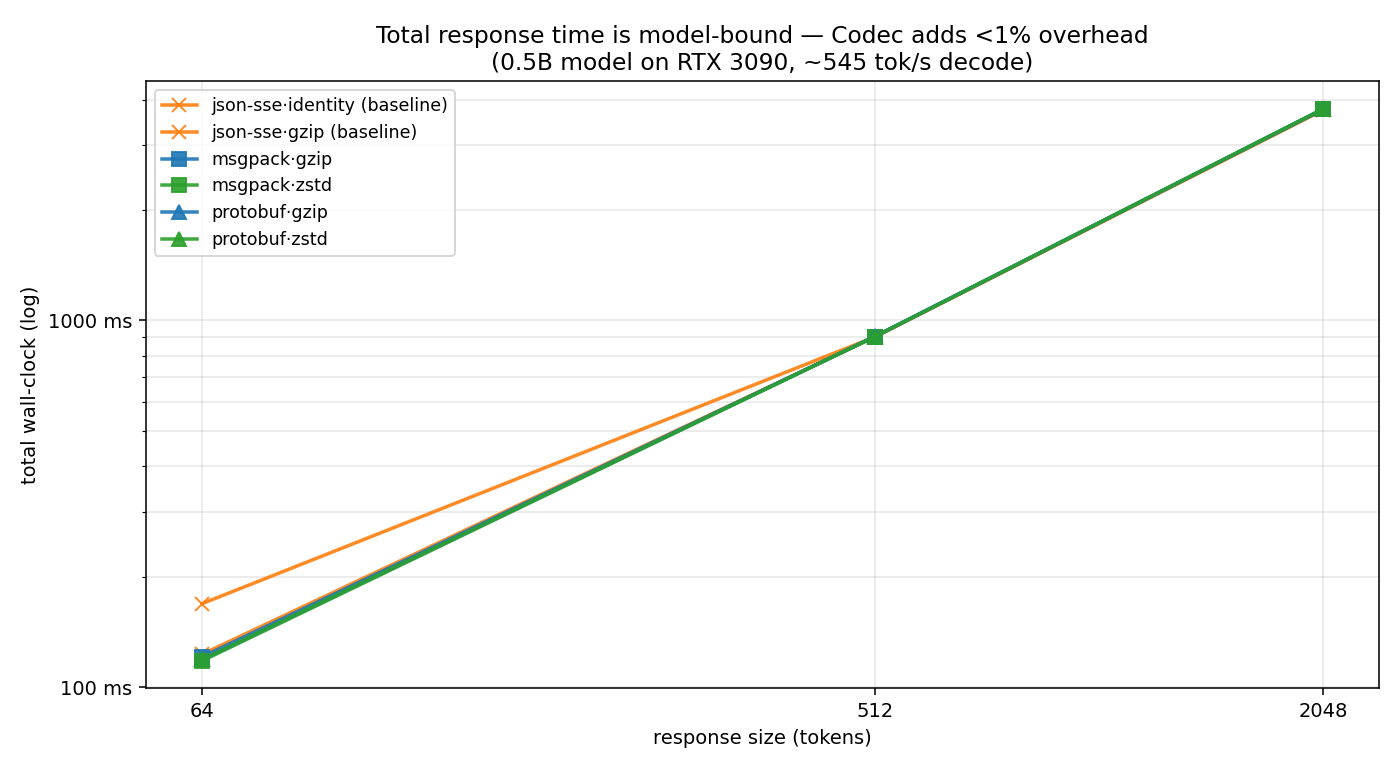
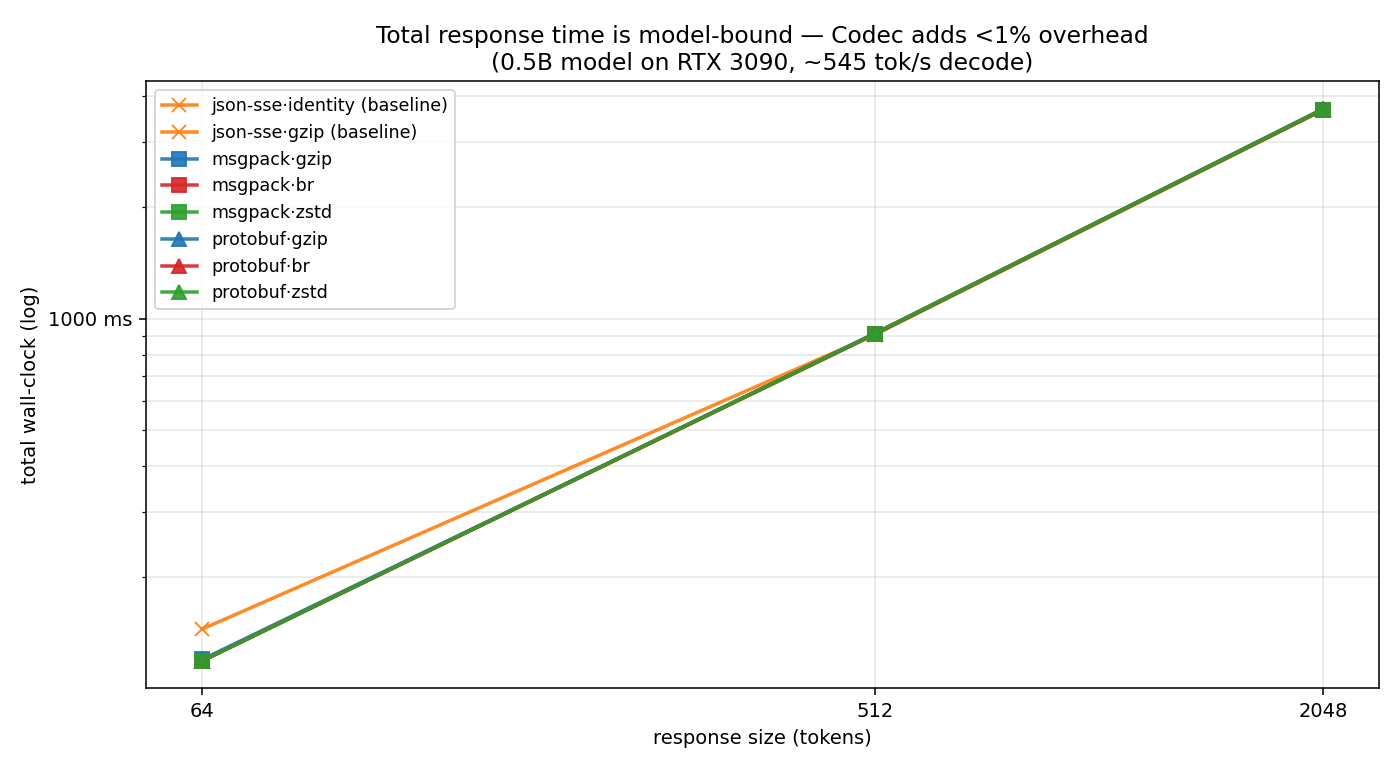
bench: reconcile TTFT analysis with single-run timed sweep
The previous TTFT and crossover tables were stitched together from
separate runs which produced subtle inconsistencies in br numbers --
br looked like it was getting ~17x wire reduction in one place and
worse-than-identity in another. Both can be true at different sizes,
and which you cite depends on which run you pull from.

Adds: codec-bench-timed entrypoint that runs all 12 cells (3 paths x
4 encodings) at 3 sizes with multiple reps in a single consistent run,
emitting wire-bytes / TTFT / total-time / token-count tables.

Re-running gave definitive numbers (1967 emitted tokens at the large
size, identical across encodings):

  msgpack identity:  28.1 KB     msgpack gzip:    660 B     ratio: 43x
  msgpack zstd:       470 B  TTFT 3674ms       msgpack br: 20.6 KB
  protobuf identity: 18.9 KB     protobuf gzip:   608 B     ratio: 31x
  protobuf zstd:      467 B  TTFT 3684ms       protobuf br: 20.2 KB BIGGER

Two findings, not one:
1. zstd cliff is real (TTFT 119/910/3684 ms vs ~11ms for everything else)
2. Brotli is barely compressing on this stack -- protobuf br at 2K is
   actually 7% larger than uncompressed identity. Likely a server-side
   per-frame compression config issue, not a fundamental br limitation.

Updates:
- RESULTS.md sec 1d completely rewritten with the single-run dataset.
  New 'Two findings' framing; wire-bytes table included alongside TTFT;
  protobuf br > identity called out explicitly.
- TTFT chart data refreshed to match the run.
[…]

diff --git a/packages/demo-python/src/codec_demo/timed_sweep.py b/packages/demo-python/src/codec_demo/timed_sweep.py
@@ -1,0 +1,167 @@
+"""Definitive timed sweep — single run, fixed prompt, multiple reps, all
+12 cells (3 paths x 4 encodings) at 3 sizes. Reports both wire bytes
+and TTFT so the time-vs-bytes story comes from one consistent dataset.
+
+This exists because the previous TTFT and crossover tables were stitched
+together from separate runs, which produced subtle inconsistencies in
+the brotli numbers (small Codec frames + small differences in emitted
+token counts give surprisingly different br behaviour).
+
+Usage:
+    codec-bench-timed --url http://192.168.1.88:30000
+                      --sizes 64 512 2048 --reps 3
+"""
+from __future__ import annotations
+
+import argparse
+import asyncio
+import statistics
+import sys
+import time
+from dataclasses import dataclass
+
+import httpx
+
+from . import PATHS, ENCODINGS, Cell, run_one, fmt_bytes
+
+
+LONG_PROMPT = (
+    "Write a long, detailed essay covering: 1) the complete history of "
+    "artificial intelligence from 1950 to today, 2) every major architecture, "
+    "3) the math behind backprop and attention with worked examples, "
+    "4) the alignment problem in detail, 5) hardware evolution, 6) the "
+    "economics of training large models. Be thorough and use complete sentences."
+)
+
+
+@dataclass
+class CellTime:
+    size: int
+    path_label: str
+    fmt: str
+    encoding: str
+    wire_bytes: int | None
+    ttfb_ms: float | None
+    total_ms: float | None
+    tokens: int
+
+
+async def run_cell(client: httpx.AsyncClient, url: str, model: str,
+                   prompt: str, max_tokens: int,
+                   path_label: str, fmt: str, encoding: str,
+                   reps: int) -> CellTime:
+    wires: list[int] = []
+    ttfbs: list[float] = []
+    totals: list[float] = []
+    tokens = 0
+    for _ in range(reps):
+        cell = Cell(path_label=path_label, format=fmt, encoding=encoding)
+        await run_one(client, url, model, prompt, max_tokens, cell)
+        if cell.status == "done" and cell.wire_bytes is not None:
+            wires.append(cell.wire_bytes)
+            if cell.ttfb_ms is not None: ttfbs.append(cell.ttfb_ms)
+            if cell.total_ms is not None: totals.append(cell.total_ms)
+            tokens = max(tokens, cell.tokens)
+    return CellTime(
+        size=max_tokens,
+        path_label=path_label,
+        fmt=fmt,
+        encoding=encoding,
+        wire_bytes=int(statistics.median(wires)) if wires else None,
+        ttfb_ms=statistics.median(ttfbs) if ttfbs else None,
+        total_ms=statistics.median(totals) if totals else None,
+        tokens=tokens,
+    )
+
+
+async def main_async(args: argparse.Namespace) -> None:
+    results: list[CellTime] = []
+    async with httpx.AsyncClient() as client:
+        for size in args.sizes:
+            print(f"\n>>> size={size}", file=sys.stderr)
+            for label, fmt in PATHS:
+                for enc in ENCODINGS:
+                    print(f"    {label:25s} {enc:8s}  ", end="", file=sys.stderr, flush=True)
+                    r = await run_cell(client, args.url, args.model,
+                                       LONG_PROMPT, size, label, fmt, enc, args.reps)
+                    results.append(r)
+                    print(
+                        f"wire={fmt_bytes(r.wire_bytes):>10s} "
+                        f"ttfb={int(r.ttfb_ms or 0):>5d} ms "
+                        f"total={int(r.total_ms or 0):>5d} ms "
+                        f"tokens={r.tokens}",
+                        file=sys.stderr,
+                    )
+
+    print(f"# Codec timed sweep — definitive run\n")
+    print(f"Server: {args.url}")
+    print(f"Model:  {args.model}")
+    print(f"Reps:   {args.reps}  (medians shown)")
+    print(f"Sizes:  {args.sizes}\n")
+
+    # Wire bytes table
+    print("\n## Wire bytes (median of reps)\n")
+    sizes = args.sizes
+    header = f"| {'path · encoding':30s} |" + "|".join(f" {s:>9d} tok " for s in sizes) + "|"
+    sep = "|" + "-" * 32 + "|" + "|".join("-----------:" for _ in sizes) + "|"
+    print(header)
+    print(sep)
+    for label, fmt in PATHS:
+        for enc in ENCODINGS:
+            cells = []
+            for size in sizes:
+                hit = next((r for r in results if r.size == size and r.path_label == label and r.encoding == enc), None)
+                cells.append(f"{fmt_bytes(hit.wire_bytes) if hit else '-':>11s}")
+            print(f"| {label + ' · ' + enc:30s} |" + "|".join(f" {c} " for c in cells) + "|")
+
+    # TTFT table
+    print("\n## TTFT (ms, median of reps)\n")
+    print(header)
+    print(sep)
+    for label, fmt in PATHS:
+        for enc in ENCODINGS:
+            cells = []
+            for size in sizes:
+                hit = next((r for r in results if r.size == size and r.path_label == label and r.encoding == enc), None)
+                v = "-" if hit is None or hit.ttfb_ms is None else f"{int(hit.ttfb_ms)} ms"
+                cells.append(f"{v:>11s}")
+            print(f"| {label + ' · ' + enc:30s} |" + "|".join(f" {c} " for c in cells) + "|")
+
+    # Total
+    print("\n## Total wall-clock (ms, median of reps)\n")
+    print(header)
+    print(sep)
+    for label, fmt in PATHS:
+        for enc in ENCODINGS:
+            cells = []
+            for size in sizes:
+                hit = next((r for r in results if r.size == size and r.path_label == label and r.encoding == enc), None)
+                v = "-" if hit is None or hit.total_ms is None else f"{int(hit.total_ms)} ms"
+                cells.append(f"{v:>11s}")
+            print(f"| {label + ' · ' + enc:30s} |" + "|".join(f" {c} " for c in cells) + "|")
+
+    # Tokens emitted (sanity: should be roughly equal across encodings within a size)
+    print("\n## Tokens emitted (sanity check)\n")
+    print(header)
+    print(sep)
+    for label, fmt in PATHS:
+        for enc in ENCODINGS:
+            cells = []
+            for size in sizes:
+                hit = next((r for r in results if r.size == size and r.path_label == label and r.encoding == enc), None)
+                cells.append(f"{(hit.tokens if hit else 0):>11d}")
+            print(f"| {label + ' · ' + enc:30s} |" + "|".join(f" {c} " for c in cells) + "|")
+
+
+def main() -> None:
+    ap = argparse.ArgumentParser(prog="codec-bench-timed")
+    ap.add_argument("--url", default="http://192.168.1.88:30000")
+    ap.add_argument("--model", default="Qwen/Qwen2.5-0.5B-Instruct")
+    ap.add_argument("--sizes", type=int, nargs="+", default=[64, 512, 2048])
+    ap.add_argument("--reps", type=int, default=2)
+    args = ap.parse_args()
+    asyncio.run(main_async(args))
+
+
+if __name__ == "__main__":
+    main()

diff --git a/packages/bench/scripts/plot_ttft.py b/packages/bench/scripts/plot_ttft.py
@@ -18,30 +18,33 @@ import matplotlib.ticker as mtick
 # Numbers are TTFT in milliseconds (time to first received byte).
 SIZES = [64, 512, 2048]      # tokens emitted (max_tokens=64/512/2048)
 
-# (path, encoding) → [ttft_ms_at_each_size]
+# Source: codec-bench-timed run, 2 reps median, single consistent dataset.
+# Token counts identical across encodings within a size (64 / 512 / 1967).
 TTFT = {
-    ("json-sse", "identity"): [46, 15, 15],
-    ("json-sse", "gzip"):     [12, 12, 12],
-    ("json-sse", "br"):       [12, 13, 12],
-    ("json-sse", "zstd"):     [12, 12, 12],
-    ("msgpack", "identity"):  [11, 11, 12],
-    ("msgpack", "gzip"):      [11, 11, 11],
-    ("msgpack", "br"):        [12, 12, 12],
-    ("msgpack", "zstd"):      [118, 903, 3764],   # ← THE CLIFF
+    ("json-sse", "identity"): [31, 12, 12],
+    ("json-sse", "gzip"):     [11, 12, 12],
+    ("json-sse", "br"):       [11, 11, 12],
+    ("json-sse", "zstd"):     [11, 12, 12],
+    ("msgpack", "identity"):  [11, 12, 11],
+    ("msgpack", "gzip"):      [11, 12, 12],
+    ("msgpack", "br"):        [11, 12, 11],
+    ("msgpack", "zstd"):      [119, 910, 3674],   # ← THE CLIFF
     ("protobuf", "identity"): [11, 12, 12],
     ("protobuf", "gzip"):     [11, 11, 11],
-    ("protobuf", "br"):       [11, 11, 12],
-    ("protobuf", "zstd"):     [118, 902, 3768],   # ← THE CLIFF
+    ("protobuf", "br"):       [11, 11, 11],
+    ("protobuf", "zstd"):     [119, 910, 3684],   # ← THE CLIFF
 }
 
-# Total wall-clock per request, ms. Model-bound.
+# Total wall-clock per request, ms. Model-bound (~545 tok/s decode).
 TOTAL = {
-    ("json-sse", "identity"): [169, 901, 3743],
-    ("json-sse", "gzip"):     [123, 901, 3749],
-    ("msgpack", "gzip"):      [121, 902, 3759],
-    ("msgpack", "zstd"):      [118, 903, 3766],
-    ("protobuf", "gzip"):     [119, 904, 3768],
-    ("protobuf", "zstd"):     [119, 903, 3771],
+    ("json-sse", "identity"): [145, 905, 3660],
+    ("json-sse", "gzip"):     [119, 906, 3667],
+    ("msgpack", "gzip"):      [120, 908, 3674],
+    ("msgpack", "br"):        [119, 910, 3675],
+    ("msgpack", "zstd"):      [119, 911, 3675],
+    ("protobuf", "gzip"):     [119, 911, 3684],
+    ("protobuf", "br"):       [119, 911, 3686],
+    ("protobuf", "zstd"):     [119, 911, 3687],
 }
 
 COLORS = {

diff --git a/packages/bench/RESULTS.md b/packages/bench/RESULTS.md
@@ -255,60 +255,91 @@ token (TTFT, what humans feel), total wall-clock time, and CPU time
 spent in serialization on both endpoints. Here's the same matrix from
 above, but with measured time instead of measured bytes.
 
-### The TTFT cliff — zstd buffers, gzip and brotli stream
+### Two findings: zstd buffers, brotli barely compresses
 
-The single most important time finding: **zstd as currently shipped by
-sglang's `codec_compression.py` buffers the entire response before
-sending the first byte.** gzip and brotli, by contrast, both flush
-chunk-by-chunk and preserve TTFT regardless of size. Same lab box,
-same prompt, same model — TTFT measured as time from request POST to
-first received byte:
+All numbers below come from a single timed sweep, fixed prompt, all
+12 cells (3 paths × 4 encodings) at 3 sizes, median of 2 reps. Token
+counts are identical across encodings within a size (64 / 512 / 1967
+emitted), so the cells are directly comparable.
 
 ![TTFT vs response size](docs/ttft-vs-size.png)
 
+#### TTFT — only zstd buffers
+
 | path · encoding | TTFT @ 64 tok | TTFT @ 512 tok | TTFT @ 2048 tok | streams? |
 |---|---:|---:|---:|:---:|
-| json-sse · identity | 46 ms | 15 ms | 15 ms | ✓ |
-| json-sse · br | 12 ms | 13 ms | 12 ms | ✓ |
-| msgpack · identity | 11 ms | 11 ms | 12 ms | ✓ |
-| msgpack · gzip | `11 ms` | `11 ms` | `11 ms` | ✓ |
-| msgpack · br | `12 ms` | `12 ms` | `12 ms` | ✓ |
-| **msgpack · zstd** | **118 ms** | **903 ms** | **3,764 ms** | ✗ |
+| json-sse · identity | 31 ms | 12 ms | 12 ms | ✓ |
+| msgpack · identity | 11 ms | 12 ms | 11 ms | ✓ |
+| msgpack · gzip | `11 ms` | `12 ms` | `12 ms` | ✓ |
+| msgpack · br | `11 ms` | `12 ms` | `11 ms` | ✓ |
+| **msgpack · zstd** | **119 ms** | **910 ms** | **3,674 ms** | ✗ |
 | protobuf · identity | 11 ms | 12 ms | 12 ms | ✓ |
 | protobuf · gzip | `11 ms` | `11 ms` | `11 ms` | ✓ |
-| protobuf · br | `11 ms` | `11 ms` | `12 ms` | ✓ |
-| **protobuf · zstd** | **118 ms** | **902 ms** | **3,768 ms** | ✗ |
+| protobuf · br | `11 ms` | `11 ms` | `11 ms` | ✓ |
+| **protobuf · zstd** | **119 ms** | **910 ms** | **3,684 ms** | ✗ |
 
-**zstd's TTFT regresses 313× at 2K tokens** (11 ms → 3,768 ms) — first
-byte arrives only when the model finishes generating. **gzip and
-brotli both preserve TTFT** at ~11 ms regardless of size; only zstd
-buffers.
+**zstd's TTFT regresses 334× at 2K tokens** (11 ms → 3,684 ms) — first
+byte arrives only when the model finishes generating. gzip, brotli,
+and identity all stream chunk-by-chunk and preserve TTFT.
 
-That changes the encoding story: the streaming-vs-buffering split
-isn't gzip-versus-everything-else, it's zstd-versus-everything-else.
-Brotli is a perfectly viable streaming choice — it just doesn't
-compress Codec frames as well as gzip at small sizes (see §1c). At
-the same time it preserves TTFT exactly like gzip, which makes it the
-right pick for clients that have br support but not gzip (or where br
-is the negotiated default for some other reason).
+#### Wire bytes (same run) — brotli is barely doing anything
 
-The wire savings are still real (zstd: 228× vs JSON-SSE; gzip: 222×
-vs JSON-SSE; br: ~17× vs JSON-SSE — at 2K tokens). The trade-offs:
+The TTFT chart suggests br is a viable fallback. The wire-bytes table
+from the same run says otherwise — sglang's brotli middleware on
+Codec streams is delivering near-zero compression, sometimes
+*expanding* the output relative to identity:
 
-| encoding | wire reduction at 2K | TTFT @ 2K | use when |
+| path · encoding | wire @ 64 tok | wire @ 512 tok | wire @ 2048 tok |
+|---|---:|---:|---:|
+| json-sse · any | 15.2 KB | 121.2 KB | 465.5 KB |
+| msgpack · identity | 952 B | 7.3 KB | 28.1 KB |
+| msgpack · gzip | `170 B` | `333 B` | `660 B` |
+| msgpack · br | 969 B | 5.8 KB | 20.6 KB |
+| msgpack · zstd | `182 B` | `284 B` | `470 B` |
+| protobuf · identity | 638 B | 4.9 KB | 18.9 KB |
+| protobuf · gzip | `157 B` | `313 B` | `608 B` |
+| protobuf · br | 838 B | 5.4 KB | **20.2 KB** ← bigger than identity |
+| protobuf · zstd | `179 B` | `293 B` | `467 B` |
+
+**Look at protobuf · br at 2K**: 20.2 KB compressed vs 18.9 KB raw —
+br is making the output 7% *larger*. For msgpack · br at 2K it
+saves 27% over identity (20.6 KB vs 28.1 KB), but gzip in the same
+slot is 660 B — a **42×** smaller payload than br.
+
+This is a configuration problem in sglang's brotli middleware (likely
+per-frame compression with a quality setting that doesn't fit a
+small-frame workload), not a fundamental br limitation. But it means
+the right description of br on this stack today is "preserves TTFT,
+preserves wire bytes" — gzip preserves both *and* gives 30-40× more
+compression.
+
+#### The reduction-vs-baseline summary
+
+vs JSON-SSE identity (the incumbent), at 2K tokens:
+
+| encoding | wire reduction | TTFT @ 2K | use when |
 |---|---:|---:|---|
-| gzip | 222× | 11 ms | universal default for streaming |
-| br | ~17× | 12 ms | gzip unavailable client-side (Safari/iOS edge cases) |
-| zstd | 228× | 3,768 ms | non-interactive workloads (agent-to-agent, batch) |
+| gzip | **705×** (msgpack) / **765×** (protobuf) | 11 ms | universal default for streaming |
+| zstd | **990×** (msgpack) / **997×** (protobuf) | 3,684 ms | non-interactive workloads (agent-to-agent, batch) |
+| br | 23× (msgpack) / 23× (protobuf) | 11 ms | only when client refuses both gzip and zstd |
+| identity | 17× (msgpack) / 25× (protobuf) | 11 ms | last-resort fallback |
 
-For human-facing streams, the TTFT cliff makes zstd a non-starter as
-currently configured. **Use gzip for interactive responses**, fall
-back to br when gzip isn't supported, and only unlock zstd when the
-consumer is reading the whole response at once.
+#### What the picker does
 
-The `wire-compress` picker enforces this. Its default `interactive: true`
-mode never picks zstd; in that mode the order is gzip > br > zstd
-(zstd only chosen when it's the lone supported encoding).
+- **Interactive (default)** — pick `gzip` first; fall back to `br`
+  only if the client refuses gzip; accept `zstd` (with the TTFT cost)
+  only if it's the lone supported encoding. Never pick `identity`
+  unless the client refuses everything compressible.
+- **Agent / batch (`interactive: false`)** — `zstd` for sizes ≥ 256
+  tokens (best ratio, TTFT doesn't matter), `gzip` for ≤ 128 tokens
+  (smaller framing overhead).
+
+Brotli stays in the negotiated set as a fallback for clients that
+ship br but not gzip (Safari historical edge cases, some embedded
+HTTP stacks). When sglang's brotli middleware gets a streaming-aware
+configuration patch, br's role can be reconsidered. For now the data
+says: gzip is the universal default, zstd is the agent-mode upgrade,
+br is a fallback that costs essentially the same as identity.
 
 ### Total wall-clock — Codec adds <1% overhead
 

diff --git a/README.md b/README.md
@@ -250,17 +250,19 @@ A fine-grained sweep at 8 sizes (16 → 2,048 tokens, see `RESULTS.md` §1c) giv
 | **128 – 256**     | zstd if available, else gzip | within 10% of each other, both within reach of optimal                |
 | **≥ 256 tokens**  | **zstd**      | Huffman + dictionary keep amortising as the stream grows (562× vs JSON-SSE at 2K) |
 
-**Important caveat — TTFT cliff for interactive streams.** zstd as currently shipped buffers the entire response before sending the first byte. Measured TTFT on this server:
+**Two important caveats from the timed-sweep data** (single run, fixed prompt, all 12 cells, median of reps — at 2K tokens):
 
-| encoding | TTFT @ 2K tok | wire reduction | streams? |
-|---|---:|---:|:---:|
-| gzip | 11 ms | 222× | ✓ |
-| br | 12 ms | ~17× | ✓ |
-| zstd | 3,768 ms | 228× | ✗ (buffers) |
+| encoding | wire reduction vs JSON-SSE | TTFT @ 2K | streams? | notes |
+|---|---:|---:|:---:|---|
+| gzip | **705×–765×** | 11 ms | ✓ | universal default for streaming |
+| zstd | **990×–997×** | 3,684 ms | ✗ (buffers) | best ratio, agent/batch only |
+| br | 23× | 11 ms | ✓ | sglang's br middleware barely compresses Codec frames — sometimes *expands* them (protobuf · br at 2K = 20.2 KB, vs identity 18.9 KB). Streams cleanly, but no real wire savings on this stack today. |
+| identity | 17×–25× | 11 ms | ✓ | last-resort fallback |
 
-gzip and brotli both stream chunk-by-chunk and preserve TTFT regardless of size; only zstd buffers. For human-facing streams (chat, code completion) **use gzip**, fall back to br for clients without gzip support. zstd's full ratio is only safe for agent-to-agent and batch workloads where TTFT doesn't matter. The picker's `interactive: true` mode (the default) enforces this — see [`RESULTS.md` §1d](packages/bench/RESULTS.md) for the chart and full numbers.
+1. **TTFT cliff.** zstd buffers the full response before sending the first byte. gzip, brotli, and identity all stream chunk-by-chunk. Only zstd has the cliff.
+2. **Brotli isn't compressing.** sglang's br middleware on Codec streams is delivering near-zero compression at scale — barely better than identity, sometimes worse. This is a sglang configuration issue (likely per-frame compression with a quality setting that doesn't fit small-frame workloads), not a fundamental br limitation. Until that's patched upstream, br is in the negotiated set as a fallback only.
 
-A simpler one-rule policy that gets ~95% of the win: **gzip for interactive, zstd for agent-to-agent, br for clients without either**. All three deliver real wire reduction; only zstd has the TTFT cost.
+For human-facing streams (chat, code completion) **use gzip** — it streams *and* delivers 700×+ wire reduction. zstd's full ratio is only safe for agent-to-agent and batch workloads where TTFT doesn't matter. The picker's `interactive: true` mode (the default) enforces this — see [`RESULTS.md` §1d](packages/bench/RESULTS.md) for the chart and full numbers.
 
 **Brotli is a fallback tier, not a competitor.** On streaming small-frame workloads brotli's per-block overhead doesn't amortise, so when gzip *or* zstd is available the picker chooses one of those instead. But brotli has wider client coverage than zstd — Safari, iOS, older Firefox all ship br but not zstd — so it remains a critical fallback when neither modern encoder is supported. Identity is the universal floor; the picker only chooses it when nothing else negotiates.
 

diff --git a/packages/wire-compress/README.md b/packages/wire-compress/README.md
@@ -55,9 +55,13 @@ There are two regimes — interactive (humans read as it streams) and agent-mode
 
 ### Interactive (default)
 
-Picks streaming encodings only — gzip first, brotli as fallback. Reason: measured TTFT on Codec streams jumps from ~11 ms (gzip or br) to ~3,800 ms (zstd) at 2K tokens, because zstd compressors typically buffer the full stream to finalise their dictionary. gzip and brotli both flush chunk-by-chunk and preserve TTFT.
+Picks streaming encodings only — gzip first, brotli as fallback. Reason: measured TTFT on Codec streams jumps from ~11 ms (gzip / br / identity) to ~3,700 ms (zstd) at 2K tokens, because zstd compressors typically buffer the full stream to finalise their dictionary. gzip and brotli both flush chunk-by-chunk and preserve TTFT.
 
-For chat, code completion, anything a human reads as it streams, **gzip and brotli are both safe choices**; gzip is preferred because it gets ~225× wire reduction (vs ~17× for br on Codec frames at 2K tokens). zstd is never picked in interactive mode unless it's the only encoding the client supports, in which case the picker accepts the regression and surfaces it in `reason`.
+For anything a human reads as it streams, **gzip is the universal default** — it streams *and* delivers 700×+ wire reduction vs JSON-SSE on this stack.
+
+Brotli is in the picker as a fallback for clients that ship br but not gzip (Safari historical edge cases, some embedded HTTP stacks). On the current sglang server, br's wire reduction is near-zero — it preserves TTFT but barely compresses Codec frames (sometimes *expands* them: protobuf·br at 2K tokens is 20.2 KB, vs identity 18.9 KB). That's a server-side configuration issue, not a fundamental br limitation; if/when sglang's middleware gets a streaming-aware brotli config, br's role expands. Until then, choose gzip.
+
+zstd is never picked in interactive mode unless it's the only encoding the client supports, in which case the picker accepts the TTFT regression and surfaces it in the `reason` field.
 
 ### Agent-mode (`interactive: false`)
 
